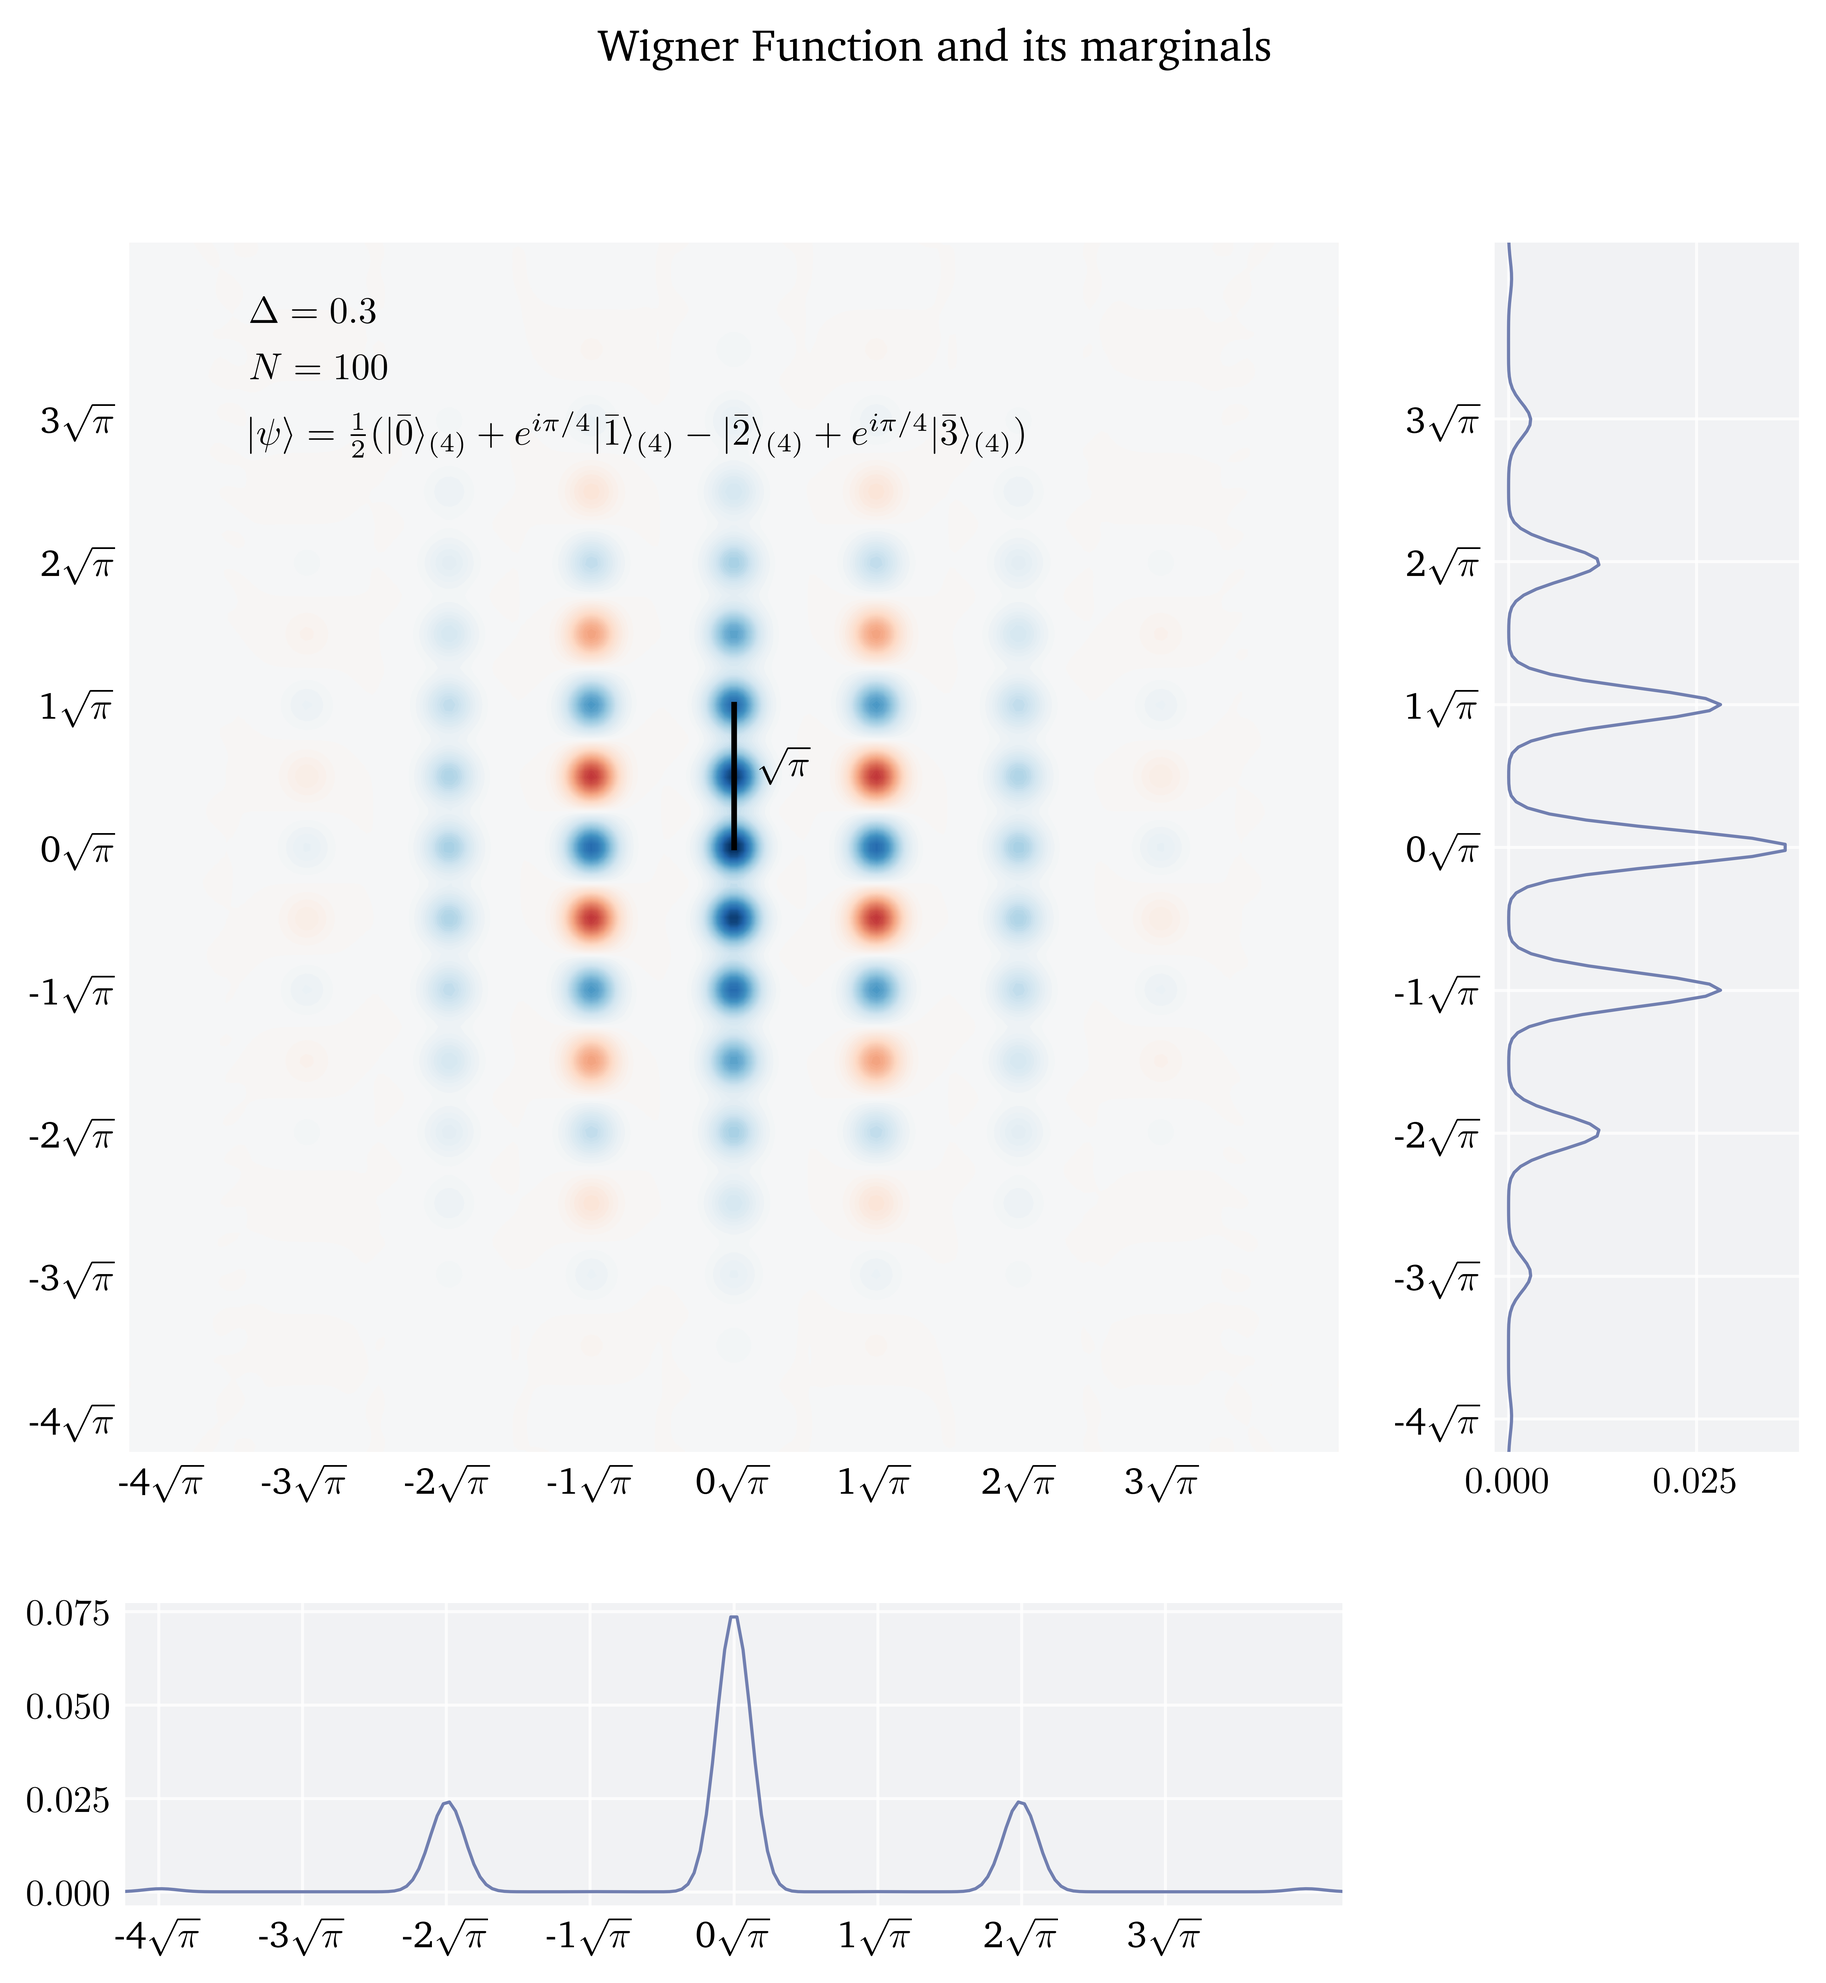
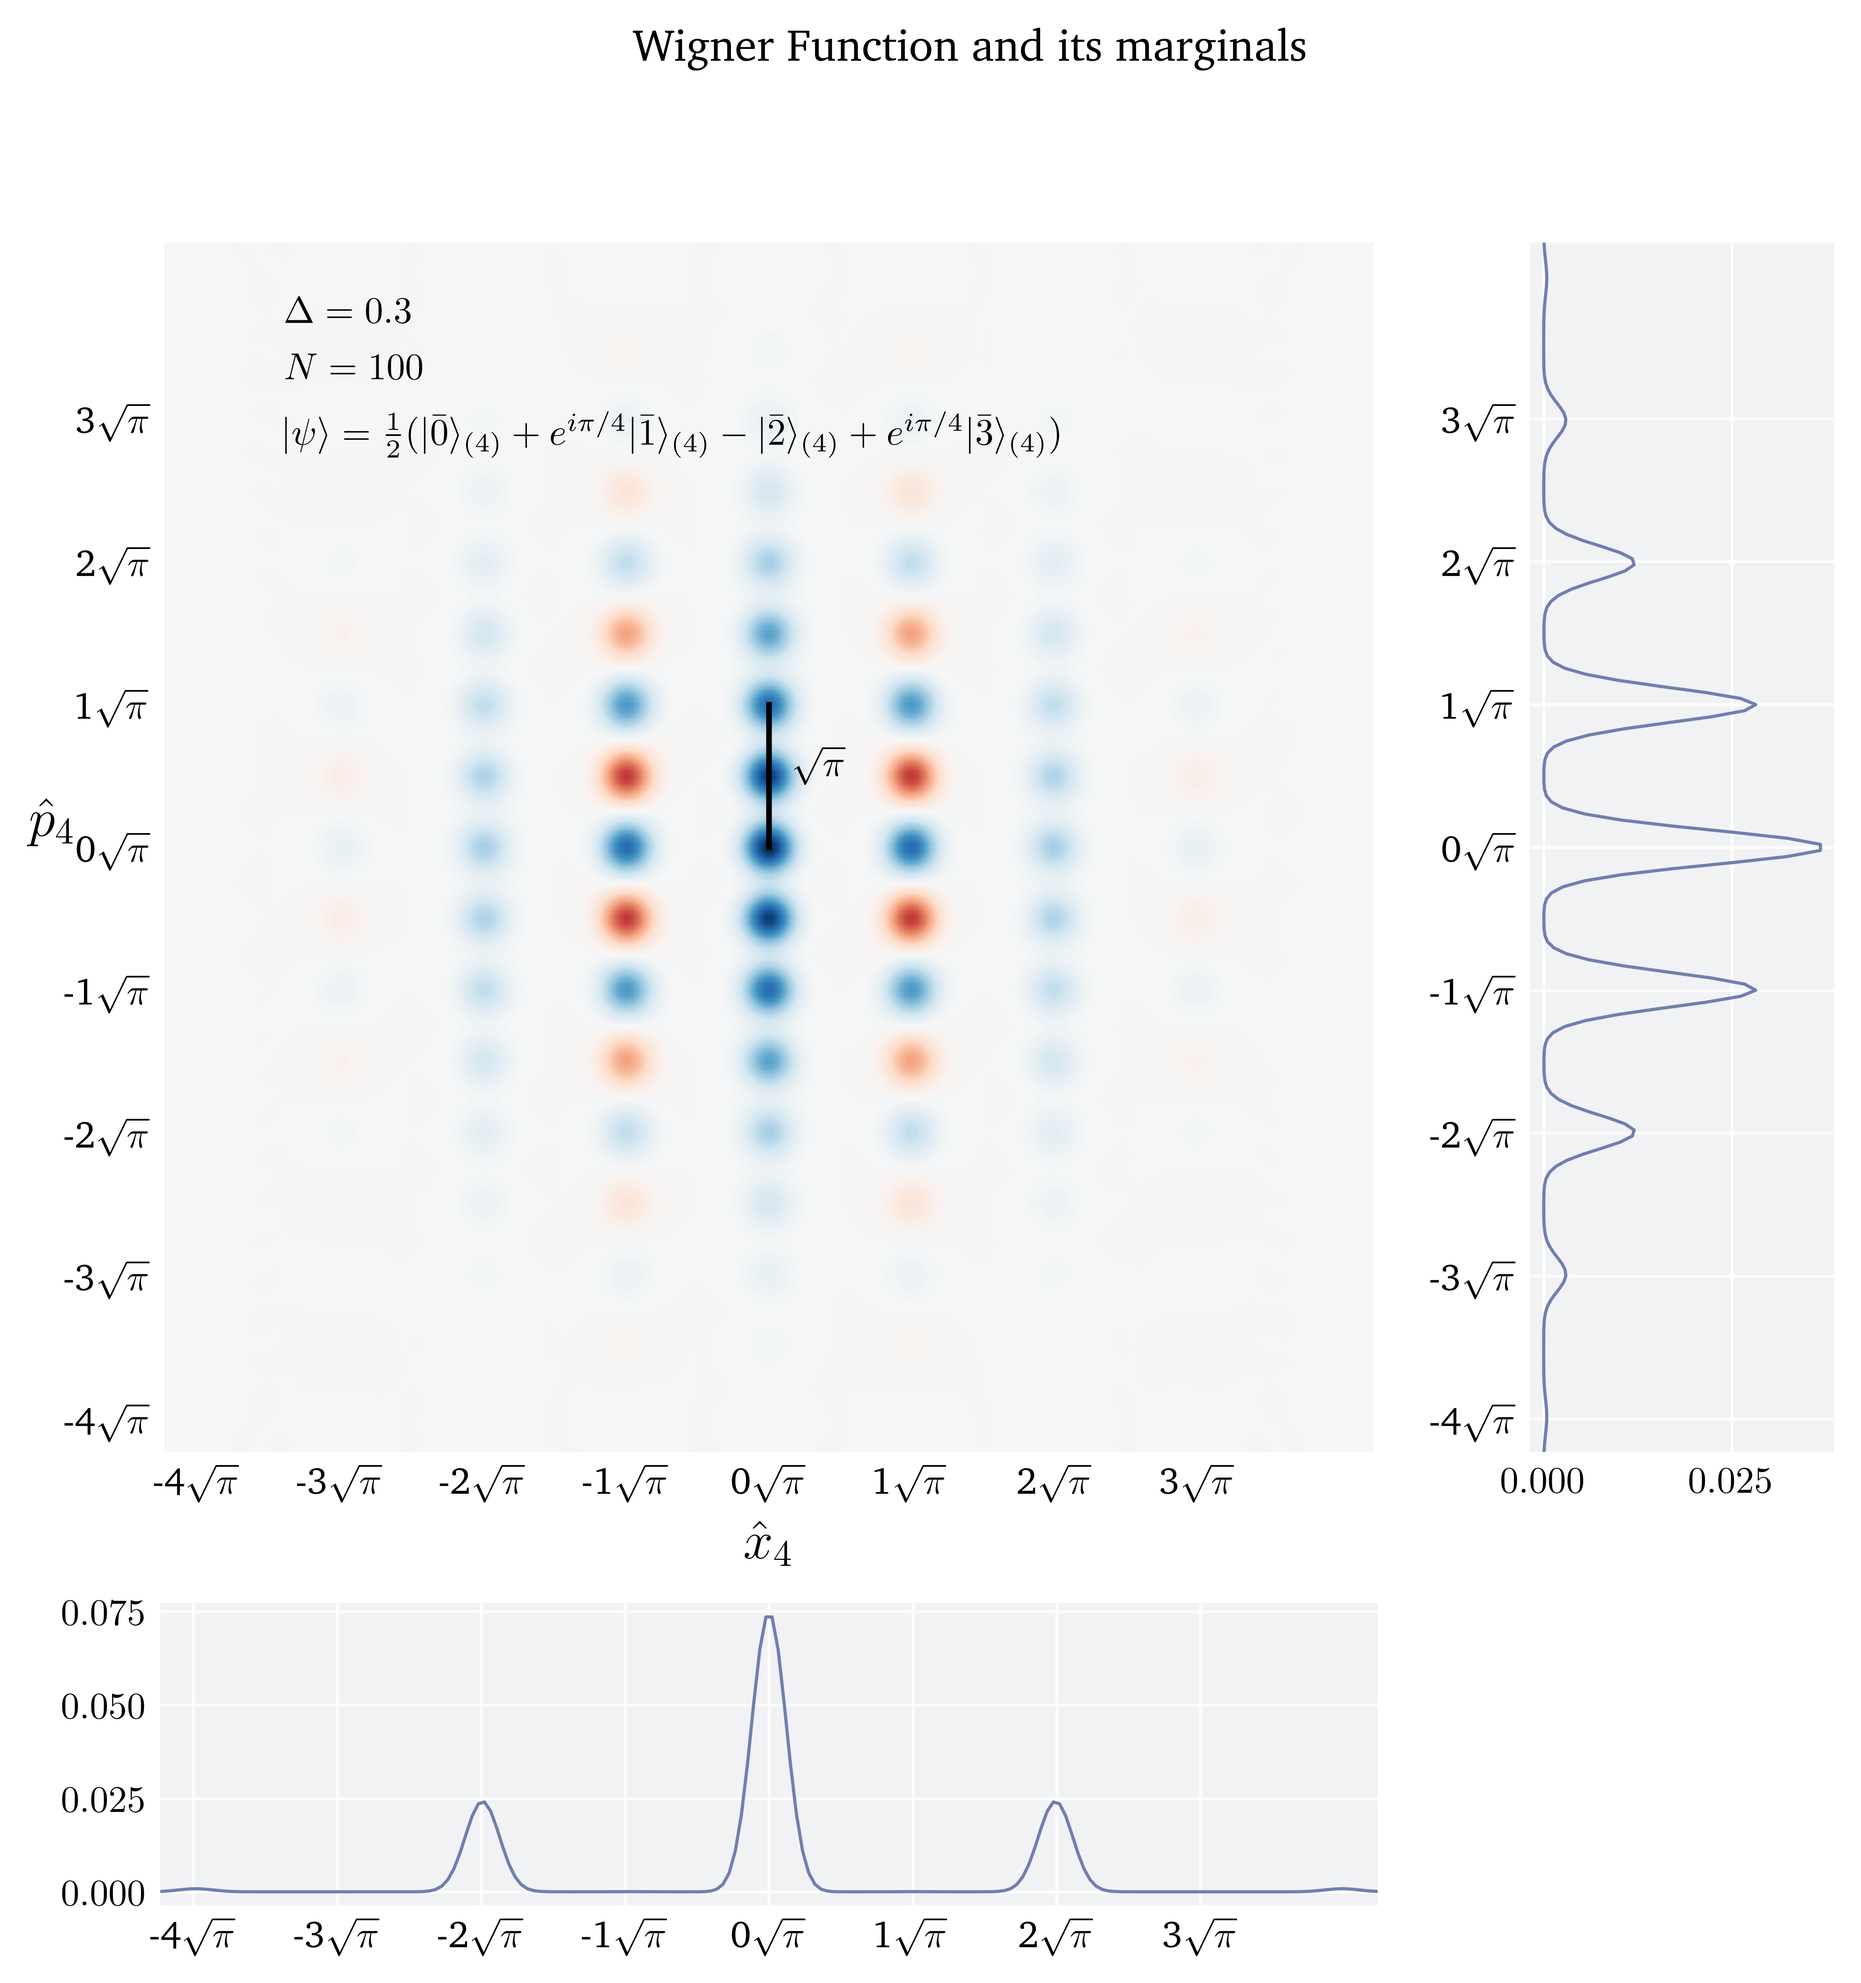
middlestate

diff --git a/stage_baptiste/projects/Other_GKPs/GKP_4/GKP_4.py b/stage_baptiste/projects/Other_GKPs/GKP_4/GKP_4.py
@@ -6,6 +6,7 @@ Code that compares qubit and qudit d=4 GKPs.
 """
 
 import numpy as np
+from numpy import sqrt
 from qutip import *
 from qutip.wigner import _wigner_clenshaw
 from stage_baptiste.homemades.finite_GKP import get_d_gkp, GKP
@@ -17,22 +18,37 @@ from matplotlib.gridspec import GridSpec
 from matplotlib.transforms import Affine2D
 import mpl_toolkits.axisartist.floating_axes as floating_axes
 
-wigner = False
-displacement = True
+wigner = True
+displacement = False
 d = 4
 m,n = 1,1
 j = 0
 delta = 0.3
 dim = 100
 osc = 1/2*(GKP(d,0,delta,dim).state+np.exp(1j*1*pi/4)*GKP(d,1,delta,dim).state-GKP(d,2,delta,dim).state+np.exp(1j*1*pi/4)*GKP(d,3,delta,dim).state)
-orig_osc = GKP(2,0,delta,dim).state
-print(orig_osc.dag()*osc)
+# orig_osc = GKP(2,0,delta,dim).state
+# print(orig_osc.dag()*osc)
 # COMMENT FAIRE LA BONNE PROJECTION (ÉTAT EST ROTATÉ)
+
+# **************** #
+# Special middle state at pi/16
+# reste à trouver pourquoi il ne faut pas de rotation
+exp = np.exp(1j*pi/4)
+alpha_0 = sqrt(6)/2*(1 + exp)
+beta_0 = -sqrt(2)/2*(1 + exp)
+gamma_0 = (-1 + exp)
+c0 = 2*alpha_0/sqrt(6) + beta_0/sqrt(2) - gamma_0/2
+c1 = alpha_0/sqrt(6) + gamma_0/2
+c2 = beta_0/sqrt(2) + gamma_0/2
+c3 = alpha_0/sqrt(6) + gamma_0/2
+osc_cursed = 1/2*(c0*GKP(d,0,delta,dim).state+c1*GKP(d,1,delta,dim).state+c2*GKP(d,2,delta,dim).state+c3*GKP(d,3,delta,dim).state)
+# **************** #
+
 
 a = destroy(dim)
 
 # e_ops if needed
-X,Y,Z,Sx,Sp = np.sqrt(pi/2),np.sqrt(pi/2)*(1+1j),np.sqrt(pi/2)*1j,np.sqrt(2*pi),np.sqrt(2*pi)*1j
+X,Y,Z,Sx,Sp = sqrt(pi/2),sqrt(pi/2)*(1+1j),sqrt(pi/2)*1j,sqrt(2*pi),sqrt(2*pi)*1j
 Ds = [displace(dim,gamma) for gamma in [X,Y,Z,Sx,Sp]]  # X,Z,Y,Sx,Sp
 Ds_labels = ["X","Y","Z","Sx","Sp"]
 
@@ -41,18 +57,17 @@ n_op = a.dag()*a
 H = n_op**2
 tlist = np.linspace(0,pi/16,200)
 options = Options(store_states=True)  # get states even if e_ops are calculated
-outs = mesolve(H, osc, tlist, [], Ds,options=options)
-orig_outs = mesolve(H, orig_osc, tlist, [], Ds,options=options)
-psi = osc
+# outs = mesolve(H, osc, tlist, [], Ds,options=options)
+# orig_outs = mesolve(H, orig_osc, tlist, [], Ds,options=options)
+psi = osc_cursed
 if psi.type == 'ket' or psi.type == 'bra':
     rho = ket2dm(psi)
 else:
     rho = psi
 
 
-
 # ----- Wigner function  ---------
-angle = pi/4  # anticlockwise rotation
+angle = 0  # anticlockwise rotation
 xvec = np.linspace(-7.5, 7.5, 200)
 W0 = _wigner_clenshaw(rho, xvec, xvec)  # no rotation
 rotW0 = rot_wigner_clenshaw(rho, xvec, xvec,rot=angle)  # with pi/4 rotation
@@ -67,7 +82,7 @@ Wy, rotWy = W.marginal(dim=1), rotW0.mean(axis=1)[:,None]
 # mise en graphique
 if wigner:
     domain = np.arange(-4,4)
-    ticks = [i*np.sqrt(pi) for i in domain]
+    ticks = [i*sqrt(pi) for i in domain]
     ticks_name = [rf"{i}$\sqrt\pi$" for i in domain]
 
     W, yvec = W0 if isinstance(W0, tuple) else (W0, xvec)
@@ -80,6 +95,8 @@ if wigner:
     ax1.set_box_aspect(1)
     ax1.set_xticks(ticks,ticks_name)
     ax1.set_yticks(ticks,ticks_name)
+    ax1.set_xlabel(r"$\hat{x}_4$",fontsize='x-large')
+    ax1.set_ylabel(r"$\hat{p}_4$",fontsize='x-large', rotation=0)
     ax1.contourf(xvec, yvec, rotW0, 100,norm=mpl.colors.Normalize(-wlim, wlim),cmap=mpl.colormaps['RdBu'])
     ax2 = fig.add_subplot(gs[1],sharey=ax1)
     # ax2.plot(Wy.data,np.linspace(-7.5,7.5,250))
@@ -94,10 +111,10 @@ if wigner:
     ax1.text(-6,5,r"$|\psi\rangle = \frac{1}{2}(|\bar{0}\rangle_{(4)} + e^{i\pi/4}|\bar{1}\rangle_{(4)} -"
                                                 r"|\bar{2}\rangle_{(4)} + e^{i\pi/4}|\bar{3}\rangle_{(4)})$")
     # mesuring dimension of grid
-    ax1.plot([0,0],[0,np.sqrt(pi)],'-',lw=1.5,color="black")
-    ax1.text(np.sqrt(pi/2)/4,np.sqrt(pi)/2,r"$\sqrt{\pi}$",color="black",rotation=0)
+    ax1.plot([0,0],[0,sqrt(pi)],'-',lw=1.5,color="black")
+    ax1.text(sqrt(pi/2)/4,sqrt(pi)/2,r"$\sqrt{\pi}$",color="black",rotation=0)
 
-    plt.savefig(f"/Users/jeremie/Desktop/Stage_Baptiste/stage_baptiste/projects/Other_GKPs/GKP_4/figs/qubit_equiv,j={j},d={d}")
+    plt.savefig(f"/Users/jeremie/Desktop/Stage_Baptiste/stage_baptiste/projects/Other_GKPs/GKP_4/figs/middle_state,j={j},d={d}")
 
 
 # average of displacements for H

diff --git a/stage_baptiste/projects/Other_GKPs/GKP_4/F_Fock_composition.py b/stage_baptiste/projects/Other_GKPs/GKP_4/F_Fock_composition.py
@@ -21,8 +21,17 @@ d = 4
 j = 0
 delta = 0.3
 dim = 100
-osc = 1/np.sqrt(2)*(0*GKP(d,0,delta,dim).state + -1*GKP(d,1,delta,dim).state + 0*GKP(d,2,delta,dim).state + 1*GKP(d,3,delta,dim).state)
+osc = 1/np.sqrt(6)*(2*GKP(d,0,delta,dim).state + 1*GKP(d,1,delta,dim).state + 0*GKP(d,2,delta,dim).state + 1*GKP(d,3,delta,dim).state)
+
+a = destroy(dim)
+n_op = a.dag()*a
+H = n_op**2
+tlist = np.linspace(0,pi/16,200)
+options = Options(store_states=True)  # get states even if e_ops are calculated
+outs = mesolve(H, osc, tlist, [], [],options=options)
+
 
 fig,ax = plt.subplots()
-ax.bar(np.arange(0, dim), osc.diag())
+ax.bar(np.arange(0, dim), np.real(outs.states[-1].diag()))
+# ax.bar(np.arange(0, dim), np.real(osc.diag()))
 plt.show()
